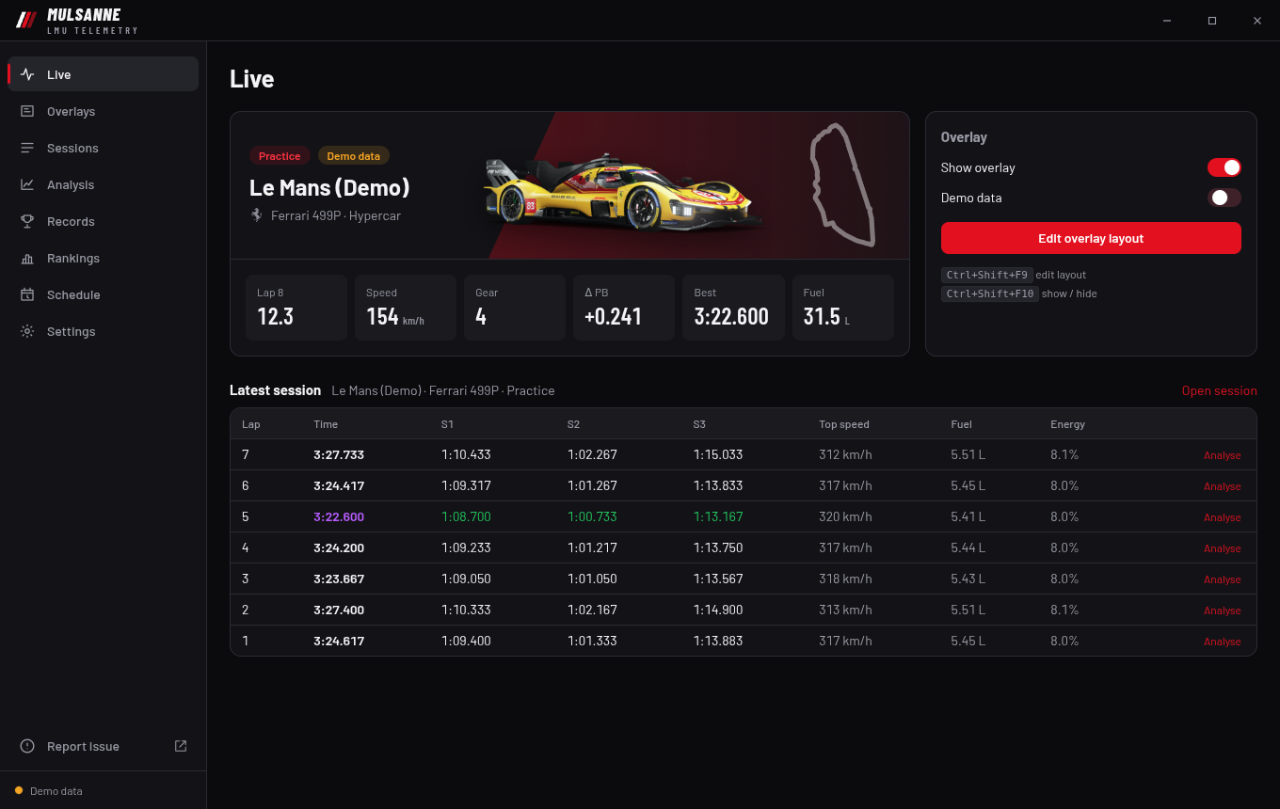
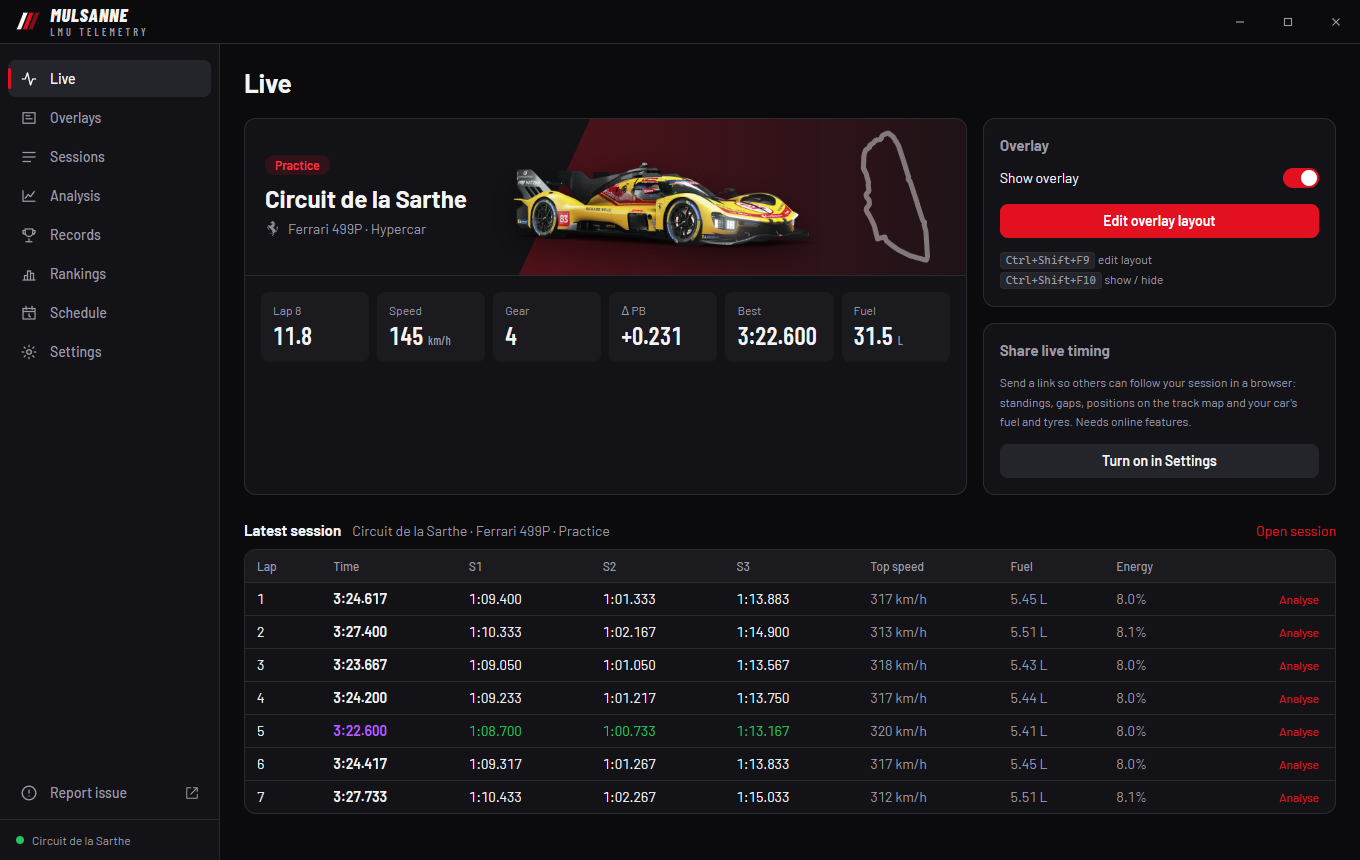
feat: tidier default overlay layout (#44)
* feat: tidier default overlay layout

Widgets sit 20 px from every screen edge, the right column lines up with
the left one, and the bottom row shares one baseline: the dashboard in
the middle with the relative and input trace beside it. Existing layouts
are unchanged; Reset positions applies the new defaults.

* docs: Le Mans demo grid and new screenshots

- The demo runs a Le Mans grid of WEC drivers in their own cars, with Le
  Mans winners in LMP3 and Robert Kubica in the #83 Ferrari, starting at
  16:00 like the race
- ?screenshot in the browser preview shows the demo as a real session at
  Circuit de la Sarthe, without demo labels
- export_fixtures also writes a shared live timing frame and map
- New README screenshots with the new default layout

diff --git a/src/lib/config.svelte.ts b/src/lib/config.svelte.ts
@@ -85,7 +85,7 @@ export const WIDGETS: WidgetMeta[] = [
     id: "dashboard",
     name: "Dashboard",
     description: "Speed, gear, RPM bar, status lights, hybrid battery and car settings at a glance.",
-    defaults: { enabled: true, x: 760, y: 830 },
+    defaults: { enabled: true, x: 800, y: 841 },
     options: [
       { key: "showIndicators", label: "Status lights (headlights, limiter, TC, ABS, wipers, engine)", type: "boolean" },
       { key: "showBattery", label: "Hybrid battery bar", type: "boolean" },
@@ -98,7 +98,7 @@ export const WIDGETS: WidgetMeta[] = [
     id: "inputs",
     name: "Input trace",
     description: "Rolling throttle, brake and steering graph with live pedal bars.",
-    defaults: { enabled: true, x: 1110, y: 960 },
+    defaults: { enabled: true, x: 1140, y: 740 },
     options: [
       { key: "seconds", label: "History (s)", type: "number", min: 2, max: 20, step: 1 },
       { key: "showSteering", label: "Steering line", type: "boolean" },
@@ -112,7 +112,7 @@ export const WIDGETS: WidgetMeta[] = [
     id: "delta",
     name: "Delta",
     description: "Live delta bar against your personal best or the session best.",
-    defaults: { enabled: true, x: 810, y: 80 },
+    defaults: { enabled: true, x: 820, y: 80 },
     options: [
       {
         key: "reference",
@@ -131,7 +131,7 @@ export const WIDGETS: WidgetMeta[] = [
     id: "laptiming",
     name: "Lap timing",
     description: "Current, last, best and predicted lap with sector splits.",
-    defaults: { enabled: true, x: 1590, y: 20 },
+    defaults: { enabled: true, x: 1620, y: 20 },
     options: [{ key: "showSectors", label: "Sectors", type: "boolean" }],
     optionDefaults: { showSectors: true },
   },
@@ -139,7 +139,7 @@ export const WIDGETS: WidgetMeta[] = [
     id: "standings",
     name: "Standings",
     description: "Multi-class timing tower with optional session header.",
-    defaults: { enabled: true, x: 20, y: 110 },
+    defaults: { enabled: true, x: 20, y: 105 },
     options: [
       { key: "showSession", label: "Session info header", type: "boolean" },
       { key: "maxRows", label: "Rows for my class", type: "number", min: 3, max: 40, step: 1 },
@@ -185,7 +185,7 @@ export const WIDGETS: WidgetMeta[] = [
     id: "relative",
     name: "Relative",
     description: "Cars physically around you on track with time gaps, virtual energy left and optional lap times.",
-    defaults: { enabled: true, x: 1220, y: 600 },
+    defaults: { enabled: true, x: 1140, y: 864 },
     options: [
       { key: "ahead", label: "Cars ahead", type: "number", min: 1, max: 8, step: 1 },
       { key: "behind", label: "Cars behind", type: "number", min: 1, max: 8, step: 1 },
@@ -200,7 +200,7 @@ export const WIDGETS: WidgetMeta[] = [
     id: "fuel",
     name: "Fuel & energy",
     description: "Fuel and virtual energy per lap, laps left, amount needed to finish and per-lap targets for stretching a stint.",
-    defaults: { enabled: true, x: 1590, y: 300 },
+    defaults: { enabled: true, x: 1620, y: 298 },
     options: [
       { key: "showLast", label: "Last lap usage", type: "boolean" },
       { key: "showSaver", label: "Saver: per-lap target to make the stint one or two laps longer", type: "boolean" },
@@ -221,7 +221,7 @@ export const WIDGETS: WidgetMeta[] = [
     id: "tyres",
     name: "Tyres",
     description: "Car view of tyre temperatures (surface or core), pressures, tread wear per lap and brake temperatures.",
-    defaults: { enabled: true, x: 20, y: 820 },
+    defaults: { enabled: true, x: 20, y: 850 },
     options: [
       {
         key: "tempLayer",
@@ -259,7 +259,7 @@ export const WIDGETS: WidgetMeta[] = [
     id: "trackmap",
     name: "Track map",
     description: "Track outline with live car positions.",
-    defaults: { enabled: true, x: 1640, y: 790 },
+    defaults: { enabled: true, x: 1650, y: 810 },
     options: [
       { key: "size", label: "Size (px)", type: "number", min: 120, max: 500, step: 10 },
       { key: "classColors", label: "Colour by class", type: "boolean" },
@@ -270,7 +270,7 @@ export const WIDGETS: WidgetMeta[] = [
     id: "weather",
     name: "Weather",
     description: "Air/track temperature, rain, wetness and wind.",
-    defaults: { enabled: false, x: 1590, y: 190 },
+    defaults: { enabled: false, x: 1620, y: 190 },
     options: [],
     optionDefaults: {},
   },

diff --git a/src/dev/mock.ts b/src/dev/mock.ts
@@ -2,7 +2,8 @@
 // be developed in a normal browser (`pnpm dev`, then open http://localhost:1420
 // or http://localhost:1420/#overlay; add ?nolive to simulate the game not running,
 // ?nolaps for a fresh install with nothing recorded, ?seen=0.6.0 to show the
-// changelog as if updating from that version, ?sharing to start with online features
+// changelog as if updating from that version, ?screenshot for website screenshots
+// (no demo labels), ?sharing to start with online features
 // on and live timing being shared, ?launches=2 to show the GitHub
 // star popup as if the app had been opened that many times before).
 // Generate fixtures first:
@@ -17,8 +18,13 @@ export async function install() {
     console.warn("dev mock: fixtures missing, run the export_fixtures example");
     return;
   }
-  const fx = await res.json();
   const params = new URLSearchParams(location.search);
+  // ?screenshot presents the demo as a real session at Le Mans, for website and
+  // README screenshots: no "Demo data" labels and the game's own track name.
+  let text = await res.text();
+  if (params.has("screenshot"))
+    text = text.replaceAll('"source":"demo"', '"source":"lmu"').replaceAll("Le Mans (Demo)", "Circuit de la Sarthe");
+  const fx = JSON.parse(text);
   const sharing = params.has("sharing");
   let config: unknown = {
     ...(sharing && { online: { enabled: true } }),
@@ -60,7 +66,7 @@ export async function install() {
         case "get_preview_snapshot":
           return fx.frames[previewFrame++ % fx.frames.length];
         case "get_status":
-          return { demo: true, editMode, overlayVisible: true, gameFocused: false, experimentalLinux: false, dataDir: "C:\\mock" };
+          return { demo: !params.has("screenshot"), editMode, overlayVisible: true, gameFocused: false, experimentalLinux: false, dataDir: "C:\\mock" };
         case "list_monitors":
           return [
             { name: "\\\\.\\DISPLAY1", width: 2560, height: 1440, x: 0, y: 0, primary: true },
@@ -98,8 +104,8 @@ export async function install() {
             starts: [0, 1, 2, 3].map((i) => at(first + i * every)).filter((t) => t < at(0) + 4 * 3_600_000),
           });
           const races = [
-            race("Logitech McLaren G Challenge Winter - Q2", "beginner", "Monza", "30 minutes", 5, 45),
-            race("LMP3 Fixed", "beginner", "Le Mans", "32 minutes", 15, 45),
+            race("Logitech McLaren G Challenge Winter - Q2", "beginner", "Monza", "30 minutes", 15, 45),
+            race("Hypercar Fixed", "beginner", "Le Mans", "32 minutes", 5, 45),
             race("LMGT3 Fixed", "beginner", "Fuji Wec 2023", "32 minutes", 25, 45),
             race("ELMS Sprint Trophy", "intermediate", "Spa Francorchamps", "44 minutes", 10, 60),
             race("LMGT3 Sprint Cup", "intermediate", "Laguna Seca", "44 minutes", 30, 60),
@@ -177,7 +183,7 @@ export async function install() {
         case "leaderboard": {
           const q = args.query;
           const pb = (fx.personalBests as any[]).find((b) => b.track === q.track && b.carClass === q.carClass);
-          const names = ["A. Laurent", null, "K. Tanaka", "J. Smith", null, "L. Novak", "P. Silva", "D. Müller"];
+          const names = ["T. Kristensen", null, "J. Ickx", "F. Alonso", null, "A. McNish", "S. Buemi", "D. Bell"];
           const entries = names.map((driver, i) => {
             const t = (pb?.lapTime ?? 100) - 1.234 + i * 0.41;
             return {

diff --git a/src-tauri/src/demo.rs b/src-tauri/src/demo.rs
@@ -177,30 +177,43 @@ pub struct DemoSim {
 impl DemoSim {
     pub fn new() -> Self {
         let classes = [("Hypercar", 1.0), ("LMP2", 0.93), ("LMP3", 0.88), ("LMGT3", 0.85)];
-        let names = [
-            "A. Laurent", "M. Rossi", "K. Tanaka", "J. Smith", "L. Novak", "P. Silva", "D. Müller", "S. Kowalski",
-            "R. Jensen", "T. Dubois", "E. García", "N. Ivanov", "C. Brown", "F. Moreau", "H. Schmidt", "Y. Sato",
-            "O. Nilsen", "G. Ricci", "B. Wilson", "V. Petrov",
-        ];
-        let cars = [
-            ["Toyota GR010", "Porsche 963", "Ferrari 499P", "Cadillac V-Series.R", "BMW M Hybrid V8", "Alpine A424"],
-            ["Oreca 07", "Oreca 07", "Oreca 07", "Oreca 07", "Oreca 07", "Oreca 07"],
-            ["Ligier JS P325", "Duqueine D09", "Ginetta G61-LT-P3 Evo", "ADESS AD25", "Ligier JS P325", "Duqueine D09"],
-            ["Porsche 911 GT3 R", "Ferrari 296 GT3", "BMW M4 GT3", "Corvette Z06 GT3.R", "Aston Martin Vantage", "Lexus RC F GT3"],
+        // A Le Mans grid: WEC regulars in their own cars, and Le Mans legends
+        // having a go in LMP3. The player is Kubica in the #83 Ferrari.
+        let roster = [
+            ("K. Kobayashi", 7, "Toyota GR010"),
+            ("K. Estre", 6, "Porsche 963"),
+            ("A. Pier Guidi", 51, "Ferrari 499P"),
+            ("E. Bamber", 38, "Cadillac V-Series.R"),
+            ("S. van der Linde", 20, "BMW M Hybrid V8"),
+            ("O. Jarvis", 22, "Oreca 07"),
+            ("P. Fittipaldi", 28, "Oreca 07"),
+            ("F. Albuquerque", 23, "Oreca 07"),
+            ("B. Hanley", 10, "Oreca 07"),
+            ("D. Heinemeier Hansson", 34, "Oreca 07"),
+            ("J. Ickx", 11, "Ligier JS P325"),
+            ("T. Kristensen", 15, "Duqueine D09"),
+            ("D. Bell", 17, "Ginetta G61-LT-P3 Evo"),
+            ("H. Pescarolo", 9, "ADESS AD25"),
+            ("E. Pirro", 5, "Ligier JS P325"),
+            ("V. Rossi", 46, "BMW M4 GT3"),
+            ("R. Lietz", 92, "Porsche 911 GT3 R"),
+            ("A. Rovera", 21, "Ferrari 296 GT3"),
+            ("B. Keating", 33, "Corvette Z06 GT3.R"),
+            ("I. James", 27, "Aston Martin Vantage"),
         ];
         let track = Track::generate();
         let mut opponents = Vec::new();
-        for (i, name) in names.iter().enumerate() {
-            let class_idx = i * classes.len() / names.len();
+        for (i, &(name, number, car)) in roster.iter().enumerate() {
+            let class_idx = i * classes.len() / roster.len();
             let (class, pace) = classes[class_idx];
             let pace = pace * (0.985 + (i as f64 * 0.37).sin().abs() * 0.025);
             opponents.push(Opponent {
                 id: i as i32 + 2,
                 driver: name.to_string(),
-                vehicle: format!("#{} {}", 10 + i * 3, cars[class_idx][i % 6]),
+                vehicle: format!("#{number} {car}"),
                 class,
                 pace,
-                progress: track.length * (1.0 - i as f64 / names.len() as f64) * 0.97,
+                progress: track.length * (1.0 - i as f64 / roster.len() as f64) * 0.97,
                 laps: 0,
                 best: 0.0,
                 last: 0.0,
@@ -503,7 +516,7 @@ impl DemoSim {
                 end_et: SESSION_LENGTH,
                 time_remaining: remaining,
                 max_laps: i32::MAX,
-                time_of_day: 14.0 * 3600.0 + self.time,
+                time_of_day: 16.0 * 3600.0 + self.time, // the Le Mans start time
                 yellow_flag_state: 0,
                 sector_yellow: [false; 3],
                 sector_flags_raw: [11; 3],

diff --git a/src-tauri/examples/export_fixtures.rs b/src-tauri/examples/export_fixtures.rs
@@ -56,5 +56,13 @@ fn main() {
         "filters": db.filters().unwrap(),
     });
     std::fs::write(out.join("fixtures.json"), serde_json::to_string(&fixtures).unwrap()).unwrap();
+
+    // One shared live timing frame and map, for previewing mulsanne.xyz/live
+    let track_map = db.track_map(lm_overlay_lib::demo::TRACK_NAME).unwrap().expect("demo track map");
+    let live = json!({
+        "frame": lm_overlay_lib::live_share::frame(frames.last().unwrap()),
+        "map": lm_overlay_lib::live_share::map(&track_map),
+    });
+    std::fs::write(out.join("live.json"), serde_json::to_string(&live).unwrap()).unwrap();
     println!("{} frames, {} laps", frames.len(), laps.len());
 }

diff --git a/src-tauri/src/lib.rs b/src-tauri/src/lib.rs
@@ -4,7 +4,7 @@ mod damage;
 pub mod db;
 pub mod demo;
 mod engine;
-mod live_share;
+pub mod live_share;
 #[cfg(target_os = "linux")]
 mod viewport;
 pub mod lmu;

diff --git a/README.md b/README.md
@@ -22,7 +22,7 @@ Website: [mulsanne.xyz](https://mulsanne.xyz)
 
 ## Screenshots
 
-<img alt="Mulsanne overlay with standings, relative gaps, fuel, tyres and a track map" src="docs/screenshots/overlay.png">
+<img alt="Mulsanne overlay with standings, relative gaps, fuel, tyres and a track map" src="docs/screenshots/overlay.jpg">
 
 <details>
 <summary><strong>More screenshots</strong></summary>
@@ -35,7 +35,7 @@ Website: [mulsanne.xyz](https://mulsanne.xyz)
 
 </details>
 
-Screenshots use the built-in demo data.
+Screenshots use the built-in demo data, shown as a session at Le Mans (`?screenshot` in the browser preview), with car renders from a Le Mans Ultimate install.
 
 ## Use
 
